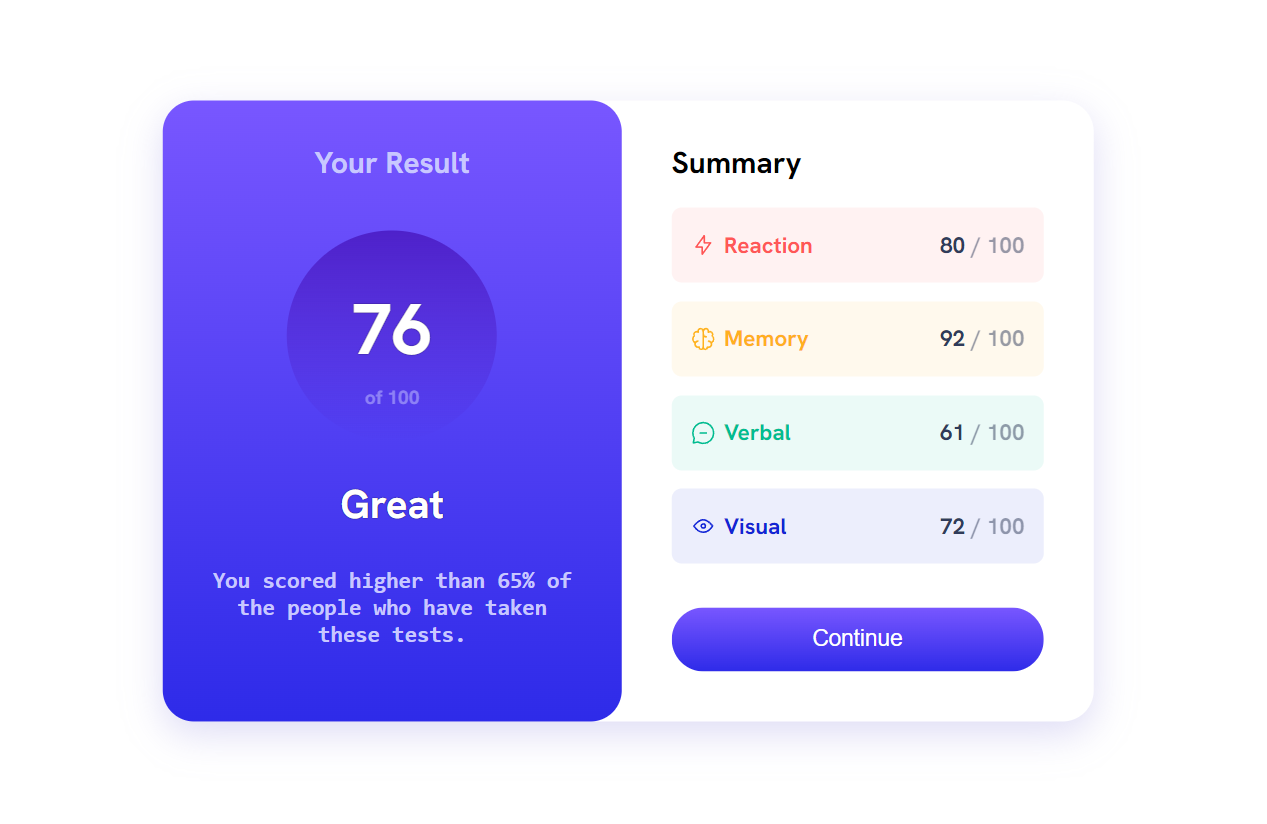
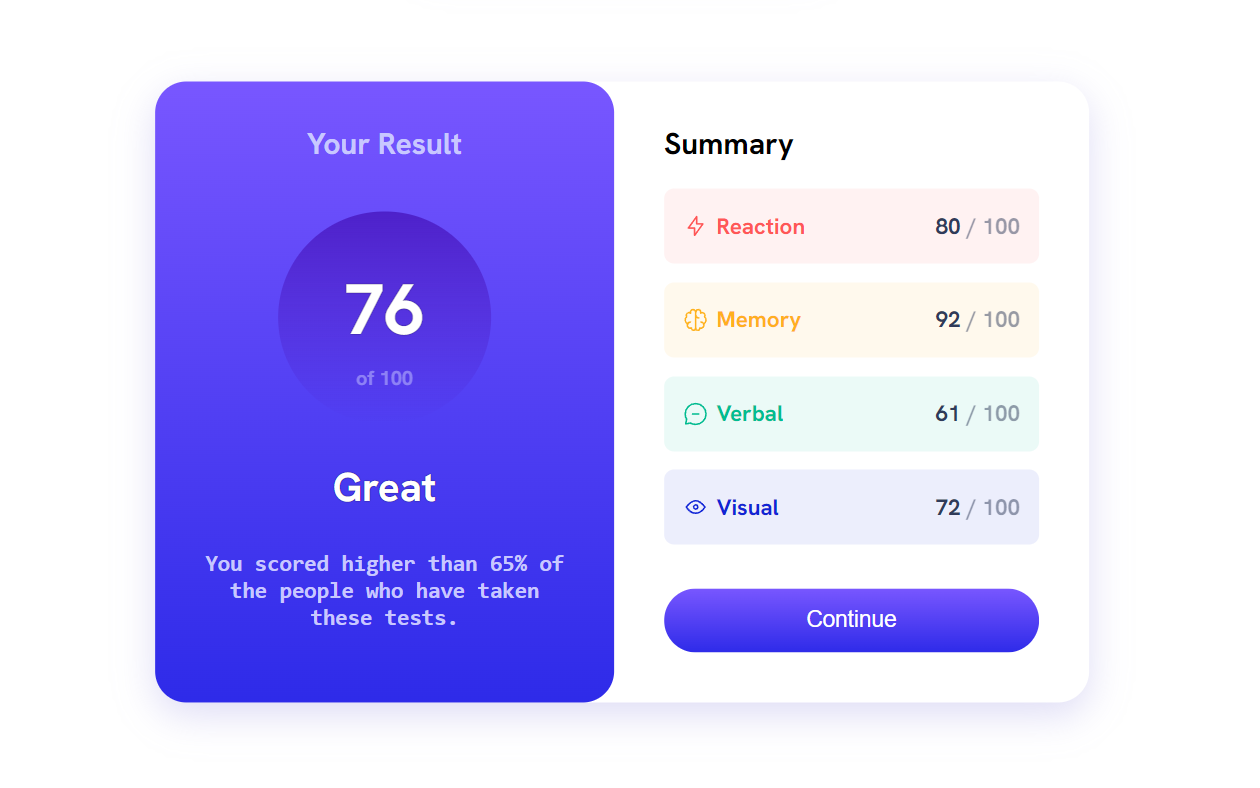
Edited 3 files

diff --git a/index.html b/index.html
@@ -13,18 +13,6 @@
   </head>
 
   <body>
-    <!-- ================================== -->
-    <div class="attribution">
-      Challenge by
-      <a href="https://www.frontendmentor.io?ref=challenge" target="_blank"
-        >Frontend Mentor</a
-      >. Coded by
-      <a href="https://www.frontendmentor.io/profile/pr0G-dev"
-        >Youssef Tawakal</a
-      >.
-    </div>
-    <!-- ================================== -->
-
     <div class="container">
       <!-- ========================== -->
       <!-- === The left container === -->
@@ -36,13 +24,13 @@
         <div class="circle grad-circle">
           <h1
             class="txt-center white txt-shadow"
-            style="font-size: 7.5vh; transform: translateY(55%)"
+            style="font-size: 57px; transform: translateY(55%)"
           >
             76
           </h1>
           <p
             class="txt-center light-lavender hund"
-            style="font-size: 2vh; transform: translateY(10px)"
+            style="font-size: 100%; transform: translateY(10px)"
           >
             of 100
           </p>
@@ -109,5 +97,17 @@ these tests.</pre
         <button class="btn white grad-bg p-size">Continue</button>
       </div>
     </div>
+
+    <!-- ================================== -->
+    <div class="attribution">
+      Challenge by
+      <a href="https://www.frontendmentor.io?ref=challenge" target="_blank"
+        >Frontend Mentor</a
+      >. Coded by
+      <a href="https://www.frontendmentor.io/profile/pr0G-dev"
+        >Youssef Tawakal</a
+      >.
+    </div>
+    <!-- ================================== -->
   </body>
 </html>

diff --git a/style.css b/style.css
@@ -74,6 +74,13 @@ body {
 .attribution {
   font-size: 11px;
   text-align: center;
+  max-width: fit-content;
+  margin: auto;
+  padding: 5px 15px;
+  border-radius: 10px;
+  position: relative;
+  background-color: white;
+  box-shadow: 0 10px 30px rgba(150, 145, 224, 0.314);
 }
 .attribution a {
   color: hsl(228, 45%, 44%);
@@ -121,8 +128,8 @@ body {
 .circle {
   margin: auto;
   border-radius: 50%;
-  max-width: 22vh;
-  min-height: 22vh;
+  max-width: 170px;
+  min-height: 170px;
 }
 /* ================================= */
 
@@ -136,7 +143,7 @@ body {
   margin: 15px 0;
   padding: 0 15px;
   border-radius: 8px;
-  min-width: 35vh;
+  min-width: 270px;
   display: flex;
 }
 
